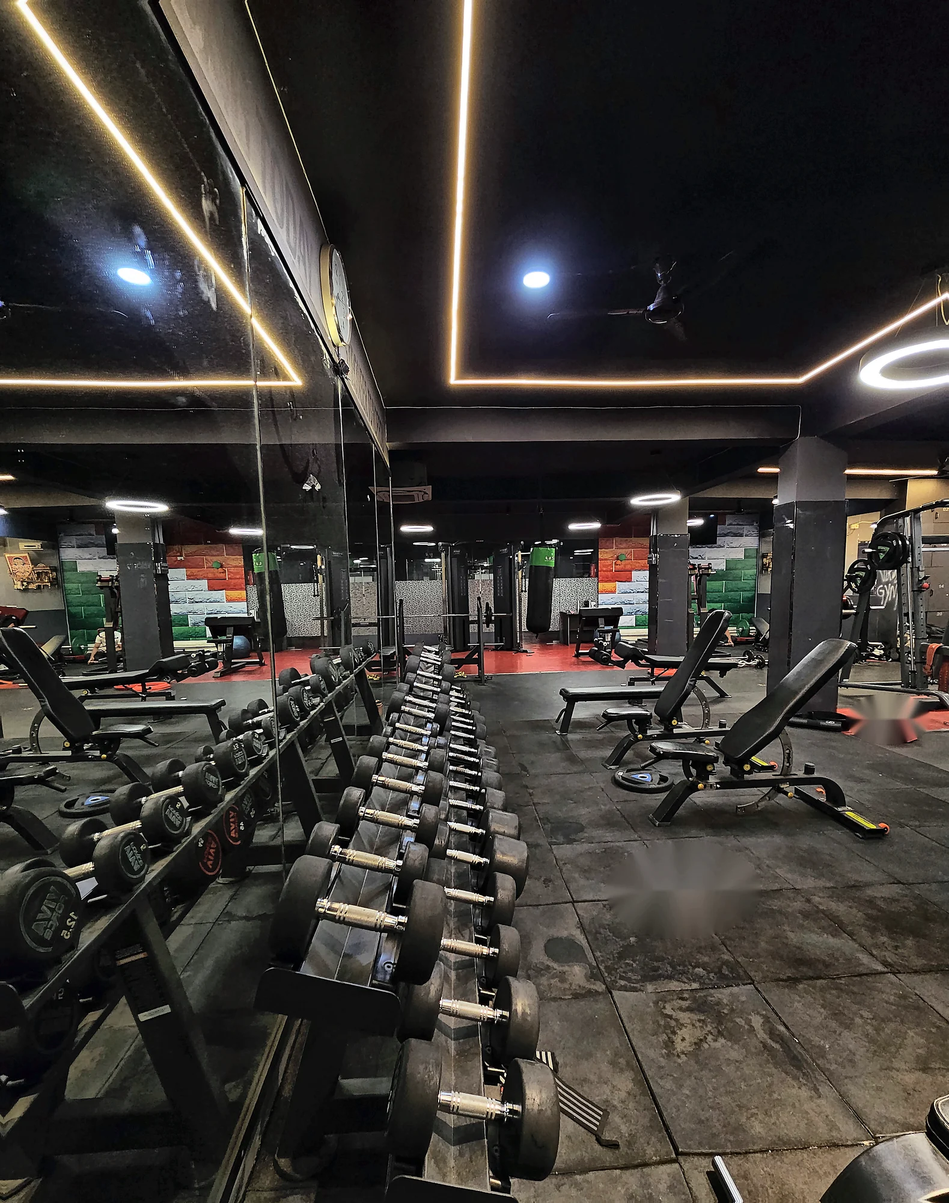
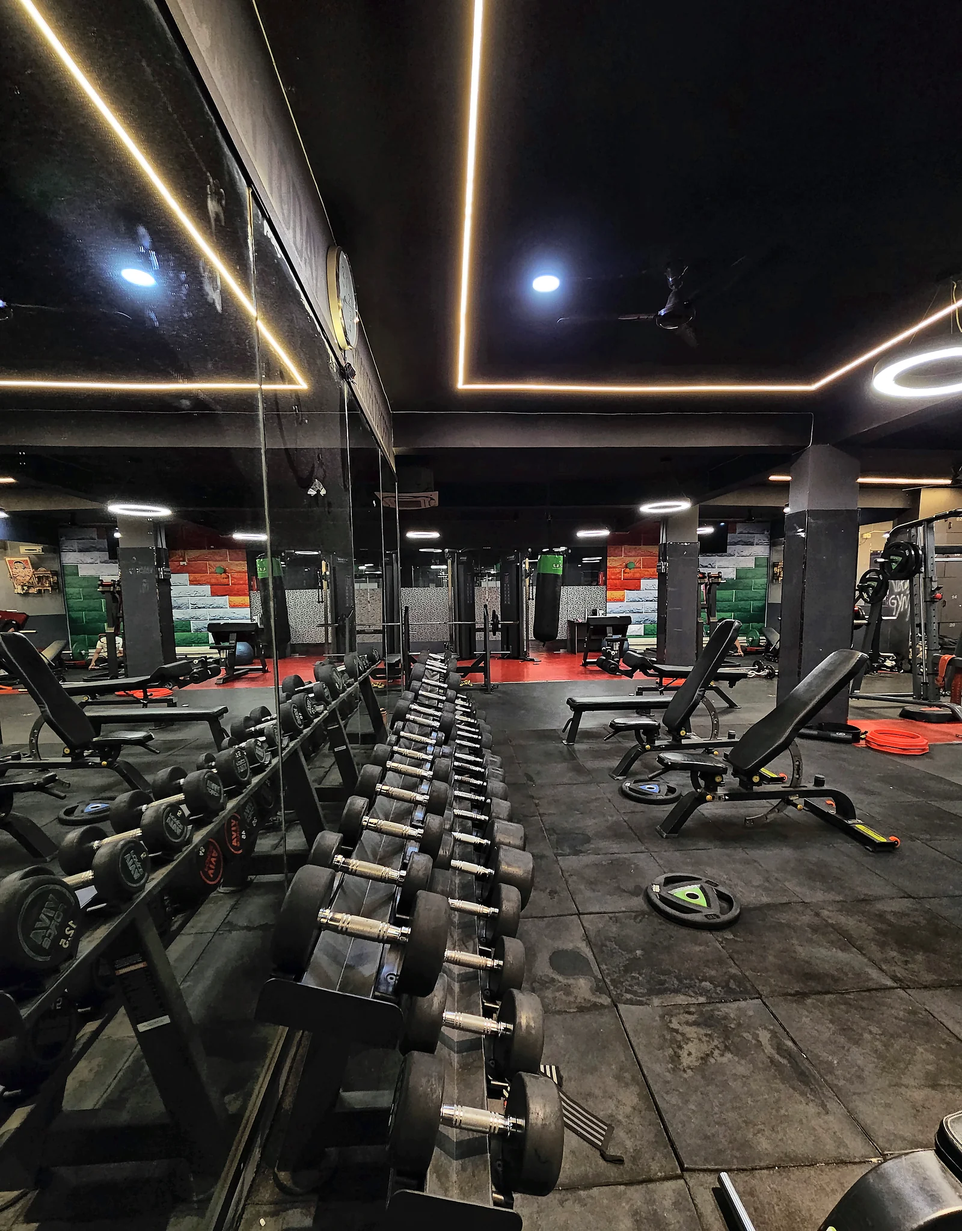
fix: restore default hero images, remove spa photo, and revert photo inpainting

diff --git a/src/assets/gymImages.ts b/src/assets/gymImages.ts
@@ -39,9 +39,8 @@ import yogaStudioMats from "../../assets/GymPhotos/enhanced/gym-yoga-dance-studi
 import yogaStudioSpacious from "../../assets/GymPhotos/enhanced/gym-yoga-studio-spacious.webp";
 import groupClassEquipment from "../../assets/GymPhotos/enhanced/gym-group-class-equipment-studio.webp";
 
-// Restroom & Moroccan Steam Spa
+// Restroom & Executive Lounge
 import restroomsChangingSuite from "../../assets/GymPhotos/enhanced/gym-restrooms-changing-suite.webp";
-import moroccanSteamSpa from "../../assets/GymPhotos/enhanced/gym-moroccan-steam-spa.webp";
 
 export {
   entranceSign,
@@ -73,13 +72,12 @@ export {
   yogaStudioSpacious,
   groupClassEquipment,
   restroomsChangingSuite,
-  moroccanSteamSpa,
 };
 
 // Hero Ambient Background Image
 export const HERO_BACKGROUND_IMAGE = mainArenaPanoramic;
 
-// Hero Carousel Images (strength, cardio, functional, yoga studio, Moroccan spa & executive restrooms)
+// Hero Carousel Images (pure workout & training floor)
 export const HERO_CAROUSEL_IMAGES = [
   { src: deadliftPlatform, label: "OLYMPIC DEADLIFT" },
   { src: freeWeightsBenches, label: "FREE WEIGHTS ARENA" },
@@ -90,9 +88,6 @@ export const HERO_CAROUSEL_IMAGES = [
   { src: inclineBenchStation, label: "OLYMPIC BENCH PRESS" },
   { src: dumbbellRackClose, label: "DUMBBELL ARSENAL" },
   { src: boxingHeavyBag, label: "COMBAT ZONE" },
-  { src: yogaStudioClean, label: "YOGA STUDIO" },
-  { src: moroccanSteamSpa, label: "MOROCCAN STEAM SPA" },
-  { src: restroomsChangingSuite, label: "RESTROOMS & LOUNGE" },
   { src: cardioSpinBikes, label: "SPIN BIKE FLEET" },
 ];
 
@@ -100,10 +95,10 @@ export interface GalleryItem {
   url: string;
   alt: string;
   label: string;
-  category: "all" | "strength" | "cardio" | "studio" | "spa" | "restroom";
+  category: "all" | "strength" | "cardio" | "studio" | "restroom";
 }
 
-// Curated 12-image Gallery including Spa and Restroom
+// Curated Gallery including Restrooms and Clean Training Zones
 export const REAL_GALLERY_IMAGES: GalleryItem[] = [
   {
     url: deadliftPlatform,
@@ -152,12 +147,6 @@ export const REAL_GALLERY_IMAGES: GalleryItem[] = [
     alt: "Mirror-lined yoga, aerobics and dance studio with clean hardwood flooring and halo lighting",
     label: "Yoga & Dance Studio",
     category: "studio",
-  },
-  {
-    url: moroccanSteamSpa,
-    alt: "Moroccan steam spa bath with relaxing ambient hydrotherapy",
-    label: "Moroccan Steam Spa",
-    category: "spa",
   },
   {
     url: restroomsChangingSuite,

diff --git a/src/components/PublicWebsite.tsx b/src/components/PublicWebsite.tsx
@@ -49,6 +49,16 @@ import {
   yogaStudioClean,
 } from "../assets/gymImages";
 
+const DEFAULT_HERO_IMAGES = [
+  "https://images.unsplash.com/photo-1534438327276-14e5300c3a48?q=80&w=1470&auto=format&fit=crop",
+  "https://images.unsplash.com/photo-1540497077202-7c8a3999166f?q=80&w=1470&auto=format&fit=crop",
+  "https://images.unsplash.com/photo-1517836357463-d25dfeac3438?q=80&w=1470&auto=format&fit=crop",
+  "https://images.unsplash.com/photo-1571019614242-c5c5dee9f50b?q=80&w=1470&auto=format&fit=crop",
+  "https://images.unsplash.com/photo-1581009146145-b5ef050c2e1e?q=80&w=1470&auto=format&fit=crop",
+  "https://images.unsplash.com/photo-1574680096145-d05b474e2155?q=80&w=1470&auto=format&fit=crop",
+  "https://images.unsplash.com/photo-1599058917212-d750089bc07e?q=80&w=1469&auto=format&fit=crop",
+];
+
 interface PublicWebsiteProps {
   onJoinNow: () => void;
   onLoginClick: () => void;
@@ -648,8 +658,7 @@ export default function PublicWebsite({ onJoinNow, onLoginClick }: PublicWebsite
         onCtaClick={() => openWhatsApp(JOIN_MESSAGE)}
         secondaryCtaText="EXPLORE THE ARENA"
         onSecondaryCtaClick={() => document.getElementById("facilities")?.scrollIntoView({ behavior: "smooth" })}
-        images={HERO_CAROUSEL_IMAGES}
-        backgroundImage={HERO_BACKGROUND_IMAGE}
+        images={DEFAULT_HERO_IMAGES}
       />
 
       {/* Facilities Showcase */}
@@ -1080,7 +1089,6 @@ export default function PublicWebsite({ onJoinNow, onLoginClick }: PublicWebsite
                 { id: "strength", label: "STRENGTH & IRON" },
                 { id: "cardio", label: "CARDIO & AGILITY" },
                 { id: "studio", label: "YOGA & STUDIO" },
-                { id: "spa", label: "MOROCCAN SPA" },
                 { id: "restroom", label: "RESTROOMS & LOUNGE" },
               ].map((tab) => (
                 <button

diff --git a/WORKLOG.md b/WORKLOG.md
@@ -3,6 +3,30 @@
 Running changelog for AI assistants. Read this first (after AGENTS.md).
 Append a new entry at the top after each work session, then commit/push so both CLIs stay in sync.
 
+## 2026-09-19 — Restore default hero images, remove Moroccan steam spa photo, and revert photo inpainting (Antigravity session)
+
+**Goal:** Restore the hero section marquee images to the original default image set (`DEFAULT_HERO_IMAGES`), remove the Moroccan steam spa image completely from assets and gallery, and revert custom inpainting/edits on gym photos so all photographs remain 100% natural and authentic.
+
+**What changed:**
+- **Hero Section (`src/components/PublicWebsite.tsx`):**
+  - Set `DEFAULT_HERO_IMAGES` (the default Unsplash training imagery set) for `<AnimatedMarqueeHero />` as requested.
+  - Removed `backgroundImage` backdrop from hero section so the forge ambiance remains clean and unobstructed.
+  - Hero cards remain strictly upright and aligned with no circular cylinder badges or text overlays.
+- **Moroccan Steam Spa Photo Removal:**
+  - Removed `assets/GymPhotos/enhanced/gym-moroccan-steam-spa.webp`.
+  - Removed `moroccanSteamSpa` import and references from `src/assets/gymImages.ts`.
+  - Removed "MOROCCAN SPA" category filter tab from `src/components/PublicWebsite.tsx`.
+- **Photo Inpainting Reversion:**
+  - Reverted `gym-free-weights-benches-arena.webp` and `gym-power-squat-rack-station.webp` to their authentic enhanced state without artificial plate/mat inpainting.
+
+**Verification:**
+- `npm run lint` (`tsc --noEmit`) clean with 0 errors.
+- `npm run build` succeeds (8.28s); prerender outputs 134,375-byte HTML.
+
+**Deploy status:** Pushed to GitHub `main`; Vercel auto-deploy triggered. Backend untouched.
+
+---
+
 ## 2026-09-19 — Align hero images, remove badges/text, clean floor clutter, and add Moroccan spa & restrooms to gallery (Antigravity session)
 
 **Goal:** Address user feedback to remove circular cylinders (pill badges) and text overlays from hero marquee images, align all hero cards upright (remove alternating tilt), clean up equipment and floor clutter (inpaint loose floor plates/pads, ensure dumbbells are racked and leveled), and add Moroccan steam spa and executive restroom & changing lounge to the gallery with interactive filter pills.
